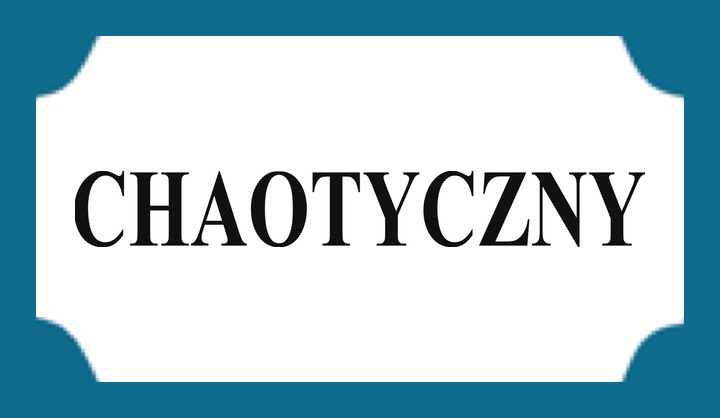
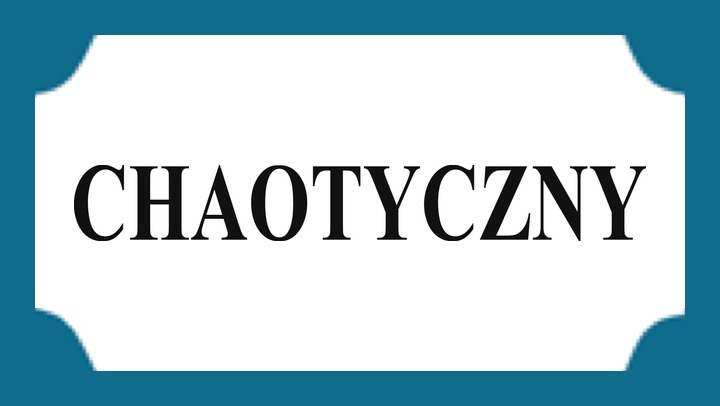
Give the Natura card a card's proportions, lying down
360 by 209 was a rectangle somebody chose. The Karta Zmiany Natury is a card
like the rest of them and should be exactly as proportioned as one — so it is
the printed card's own 398 by 705, turned on its side, and nothing else about
it changes.

Lying down for the reason it was already wide: CHAOTYCZNY is twice the word
DOBRY is, and standing up at one size it had to be set half as tall as its
neighbours to fit. Turning a card is not reshaping it; inventing a ratio was.

`PRINTED` is now the one place those two numbers live — `NOTCH` was already a
share of the first of them — and the script measures the scan against it on
every run and says so if a re-export ever moves the card.

diff --git a/src/lib/view/cardImages.ts b/src/lib/view/cardImages.ts
@@ -175,16 +175,20 @@ const NATURE_FACE: Record<string, string> = {
 };
 
 /**
- * Wider than the illustrations, and wide on purpose.
+ * The printed card's own proportions, turned on its side.
  *
- * `CHAOTYCZNY` is twice the word `DOBRY` is. On a card the shape of everything
- * else here it had to be set half as tall as its neighbours to fit, which reads
- * as a caption rather than as the same kind of object — so the card is half
- * again as wide and all three words are set at one size. See
- * `scripts/export-nature-card.mjs`, where the frame is built from the printed
- * card's corners precisely so its shape is not fixed by the scan.
+ * The Karta Zmiany Natury is a card like the rest of them and is exactly as
+ * proportioned as one — 398 by 705 off the scan — just lying down. It lies down
+ * because `CHAOTYCZNY` is twice the word `DOBRY` is: standing up, at one size,
+ * it had to be set half as tall as its neighbours to fit, which reads as a
+ * caption rather than as the same kind of object.
+ *
+ * Turning it is only possible because the frame is built from the printed
+ * card's four corners rather than cut from it whole — see
+ * `scripts/export-nature-card.mjs`, which measures these two numbers off the
+ * sheet on every run and says so if they ever move.
  */
-export const NATURE_CARD_RATIO = 360 / 209;
+export const NATURE_CARD_RATIO = 705 / 398;
 
 export function natureCardUrl(nature: string | null): string | null {
   const face = nature === null ? undefined : NATURE_FACE[nature];

diff --git a/CLAUDE.md b/CLAUDE.md
@@ -156,9 +156,10 @@ The frame is the box's, and it comes in **pieces**. A card here is a white
 field with a quarter-circle bitten out of each corner and nothing else — the
 straight edges carry no printing — so `buildCard` cuts the four corners off
 sheet 9's `Zły` and stands them on a white field of any shape with the teal
-painted round it. That is what lets this card be half again as wide as the
-illustrations (`NATURE_CARD_RATIO`) so `CHAOTYCZNY` fits at the same size as
-`ZŁY`, with nothing squashed. Corners scale off the shorter side, because a
+painted round it. That is what lets this card lie **on its side**
+(`NATURE_CARD_RATIO`) so `CHAOTYCZNY` fits at the same size as `ZŁY` with
+nothing squashed — turned, not reshaped: it keeps the printed card's own 398 by
+705, which the script re-measures and warns about on every run. Corners scale off the shorter side, because a
 bitten corner is a fixed thing a blade did. If an expansion card turns out to
 have a rule down its edges, a fifth and sixth piece go in there.
 
